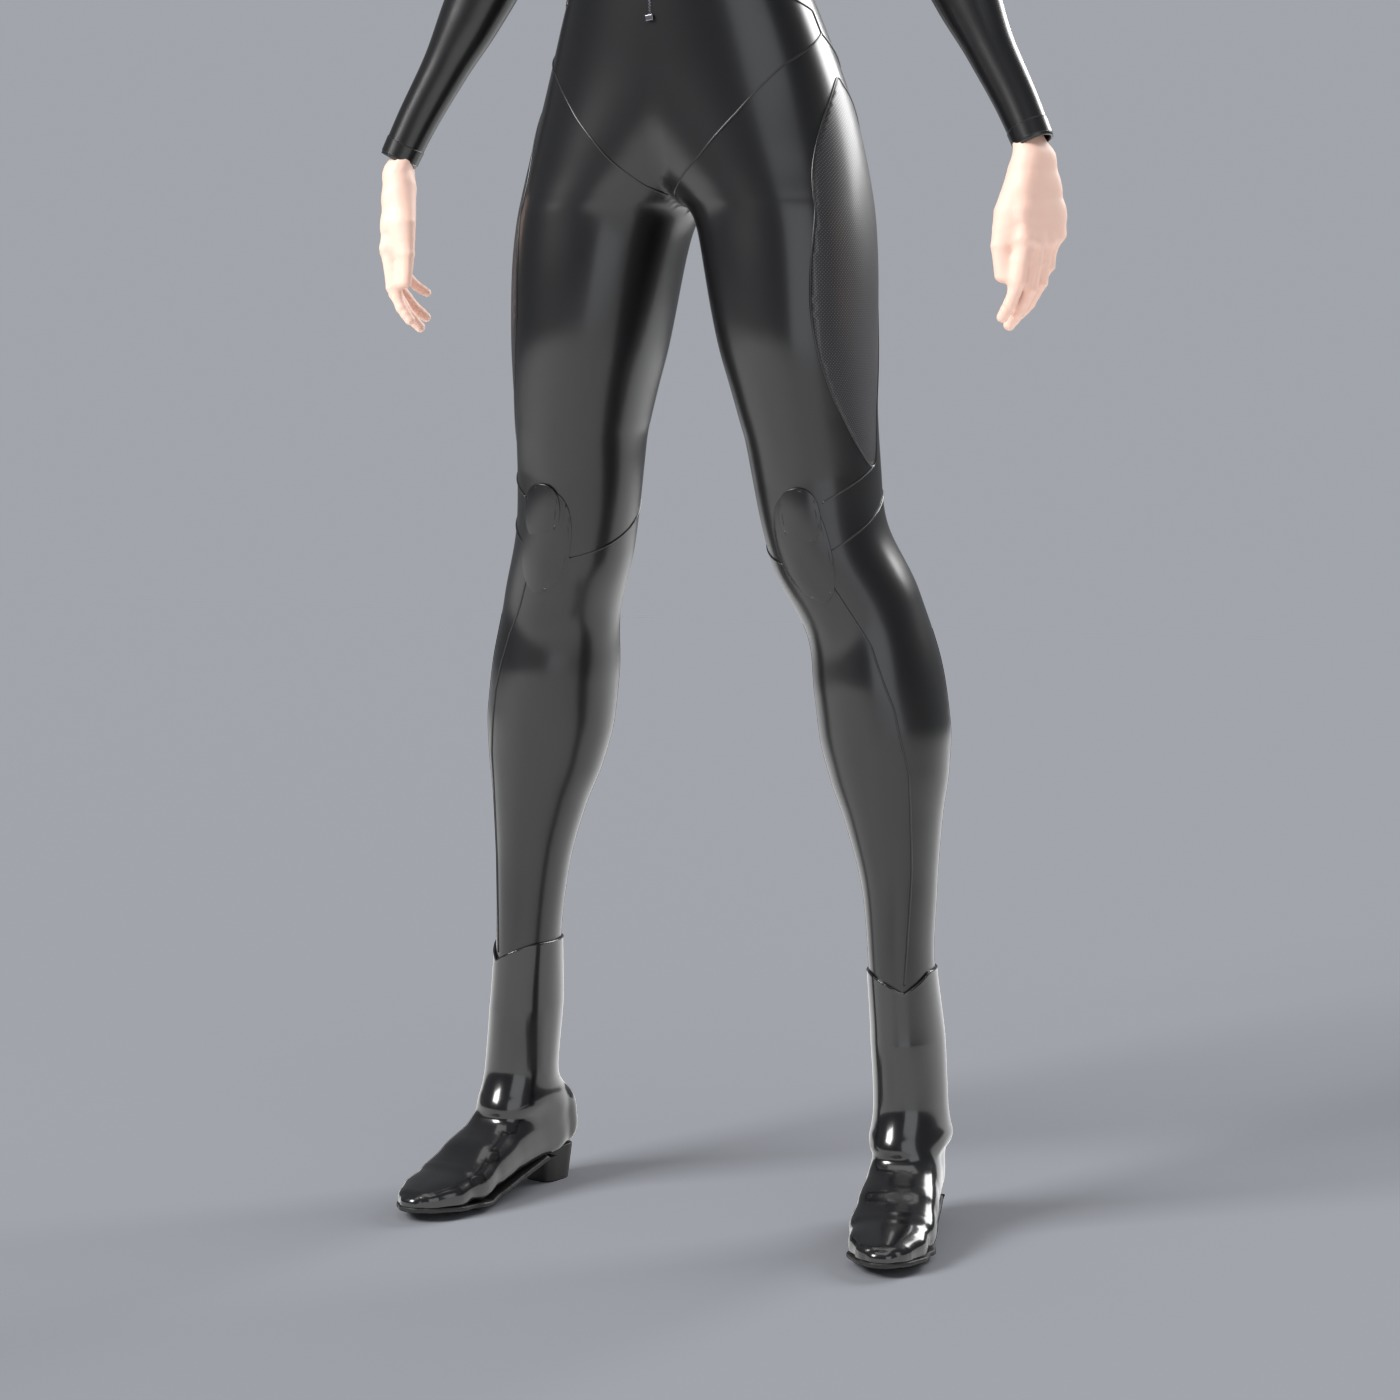
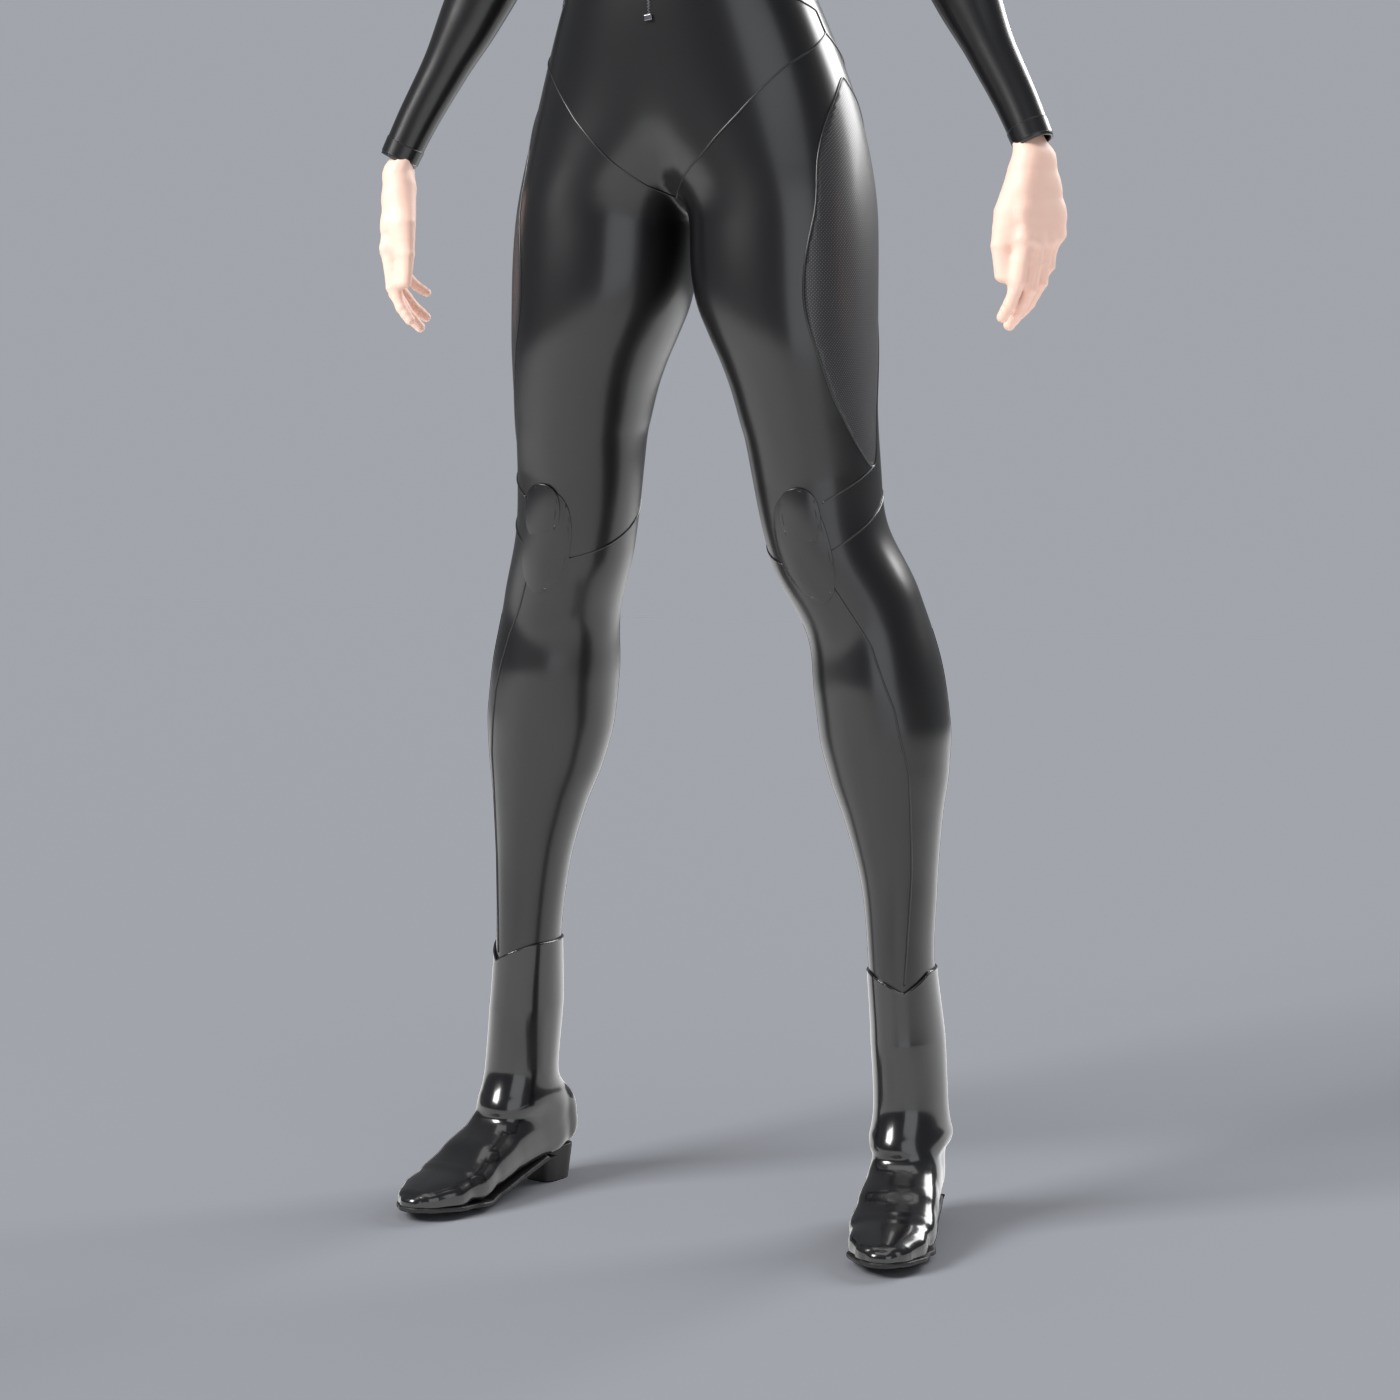
art(#33): Beatrice B1e renders -- the full set (sheet, turnaround, beauty, hip pictures, crotch.jpg, shape_vs_silhouette.jpg), measurements, provenance and index

Changed region(s): [[0.3993, 0.1229, 0.5221, 0.2764], [0.5529, 0.0, 0.6143, 0.1536], [0.3686, 0.0307, 0.3993, 0.1536]]

diff --git a/art/characters/Beatrice/previews/index.html b/art/characters/Beatrice/previews/index.html
@@ -21,7 +21,7 @@
 </head>
 <body>
 <main>
-  <h1>Beatrice — body, suit, hands, boots (stage 4: the pelvis)</h1>
+  <h1>Beatrice — body, suit, hands, boots (B1e: the pelvis, second round)</h1>
   <p>Built from Python alone on the shared character kit (<code>charkit/bodysuit.py</code>, Blender 4.5, Cycles) from the tables in
      <code>scripts/beatrice.py</code>, fitted to three drawings: front, side and back. The head is a bald placeholder for the
      face-and-hair stage. Character only, no props. This round answers <code>review_stage2.md</code>: new hands, the shoulder and
@@ -30,7 +30,20 @@
      <b>Stage 4</b> answers <code>review_stage3.md</code> for the pelvis only (waist, hips, seat, upper thighs); everything else is
      unchanged, and the close-ups further down are stage 3's.</p>
 
-  <h2>The pelvis (stage 4)</h2>
+  <h2>The pelvis, second round (B1e)</h2>
+  <p>Answers <code>review_stage4.md</code>, the pelvis only. <b>The gap between the legs:</b> the pelvis is now ONE surface across the
+     mid-plane, the smooth union of the half-body and its own mirror image (<code>charkit/bodysuit.py::MidUnion</code>), from under the
+     crotch to the waist, on the loft's own grid. The upper inner thighs are fuller (thigh / hip 0.479, the concept's 0.482; stage 4
+     0.446): a slot about 12 mm wide for the first 5&ndash;6 cm under the crotch that closes in a round arch, a smooth saddle from the
+     belly under to the seat's cleft, the surface crossing the mid-plane square (no crease line, no point). <b>The side:</b> a lumbar
+     curve flowing into one round seat, fullest at 0.94 m, its under-curve running over several centimetres into a slightly full back
+     of the thigh; a rounder lower belly, a soft groin, the front of the thigh swelling 3 mm into the knee. <b>The front:</b> the hip
+     rounds out sooner under the waist and eases off over the hip (half the way towards the owner's frontal reference,
+     <code>good-body-silhouette.jfif</code>), waist and widest point unchanged. Stage 4 is kept as the shape <code>stage4</code>.</p>
+  <figure><img src="crotch.jpg" alt="The crotch close up"><figcaption>The crotch close up: matte front, back, three-quarter front, from 40&deg; below front and back; glossy front and three-quarter</figcaption></figure>
+  <figure><img src="shape_vs_silhouette.jpg" alt="Against the owner's frontal reference"><figcaption>The owner's frontal body reference beside stage 4 and the new default, one scale (shoulder widths equal, waists aligned)</figcaption></figure>
+
+  <h2>The hip pictures (now B1e; the text is stage 4&#39;s)</h2>
   <p>The corner at the crotch came from the table: the leg rows held the outer edge upright up to the crotch row and the hand-set hip
      rows ran it in a straight line to the waist, two straight pieces meeting in one row. From above the knee to under the waist the
      trunk is now authored as its outlines (the front view's outer edge and the gap between the legs, the side view's front and back),
@@ -41,7 +54,7 @@
   <figure><img src="hips.jpg" alt="The pelvis in matte grey, five views"><figcaption>Pure form, matte grey, no seams, panels or arms: front, three-quarter front, side, three-quarter back, back</figcaption></figure>
   <div class="grid">
     <figure><img src="hips_vs_drawings.jpg" alt="The pelvis against the drawings"><figcaption>Against the drawings (orange), the concept beside the front</figcaption></figure>
-    <figure><img src="hips_before_after.jpg" alt="Outlines before and after"><figcaption>Outlines: blue stage 3, orange now</figcaption></figure>
+    <figure><img src="hips_before_after.jpg" alt="Outlines before and after"><figcaption>Stage 4 above, now below with stage 4&#39;s outline in blue</figcaption></figure>
   </div>
 
   <h2>Hands (the reviewer's first item)</h2>

diff --git a/art/characters/Beatrice/PROVENANCE.md b/art/characters/Beatrice/PROVENANCE.md
@@ -122,13 +122,37 @@ triangles, all closed.
 The face is the head function's default (doll-like), for the next stage. See the stage-2 report for what still
 reads weak (hands, the boot's heel counter, the shoulder cap seam, the back drawing's leg stance).
 
-## B1e: the pelvis, second round (2026-10-05, answers `previews/review_stage4.md`) — in progress
+## B1e: the pelvis, second round (2026-10-05, answers `previews/review_stage4.md`)
 
-- Reference added: `good-body-silhouette.jfif` (683 x 1024, supplied by Erik 2026-10-05; front view, head to upper
+- Reference added: `good-body-silhouette.jfif` (683 x 1024, supplied by Erik 2026-10-05; a front view, head to upper
   thighs, the earlier high-cut suit; "a good body shape, the same as the original image"). SHA-256
[1 lines of base64/hex data omitted]
-- Step 1, the gap between the legs: the pelvis is ONE surface across the mid-plane, the smooth union of the
-  half-body and its mirror image (`charkit/bodysuit.py::MidUnion`, table `MIDPLANE`), replacing the mid-plane cut
-  (`weld_rows`) + `midline_fillet` from under the crotch to the waist with one mechanism on the loft's own grid;
-  fuller upper inner thighs (`PELVIS["inner"]`): a slot about 12 mm wide for 6 cm under the crotch, a round arch.
-  Stage 4's pelvis is kept as the shape `stage4` (the hip pictures' "before").
+  Measured by hand (half-widths, px, between arm and body where the backdrop shows): deltoids 213.5 (row 480), narrowest
+  waist 128 (row 760), widest 198.5 just above the crotch (rows 980-1000): hip/waist 1.55 (CONCEPT 1.794), hip/shoulder
+  0.93 (0.911). Its waist-to-hip gain at 0.2 / 0.4 / 0.6 / 0.8 of the height: 0.30 / 0.56 / 0.78 / 0.93 (stage 4: 0.12 /
+  0.36 / 0.59 / 0.79). Its frame: `scripts/sheet_ref.py::SILHOUETTE`.
+- Kit (`bodysuit.py` and `hipsview.py` are this character's alone; no shared kit file touched):
+  - `bodysuit.MidUnion` (`dims["midplane"]`): the pelvis as ONE surface across the mid-plane, the smooth union
+    `smin(F(P), F(mirror P), k)` of the half-body (with its forms, continued past the plane) and its mirror image,
+    k = 2 w sigma (`reach` w; sigma = the half-body's |n_x| where it crosses the plane, 1 under the crotch). On the loft's
+    own grid: each vertex pushed horizontally within its level row onto the union, the swallowed run welded onto the
+    union's own crossing of the plane, the stretch beside each weld point resampled (`_spread`), rows 0.1 mm apart at
+    the arch's tip (`refine`), the tip relaxed and re-projected (`relax`), coincident weld vertices merged (`_clean`).
+    Replaces `weld_rows` + `midline_fillet` from 0.80 to 1.125 m (both kept, used by the shape `stage4`).
+    `Suit.forms(signed=)`, `Suit.body_lift`, `build_suit(body_only=)`.
+  - `hipsview`: `crotch.jpg`, `shape_vs_silhouette.jpg`; `hips_before_after.jpg` now the before beside now (matte, four
+    views); the measurements add the half-gap every 5 mm, `midplane_normals` and `mesh_check` to
+    `source/<prefix>outline.json`.
+- Tables: `PELVIS` (inner, outer, front, back), `SEAT` (broader, lower), `MIDPLANE`; `PELVIS4` / `SEAT4` / `MIDLINE` and the
+  shape `stage4` (= `HIPS_BEFORE`); the slimmer / fuller steps' seats follow the new SEAT.
+- Measured (full build): half-gap 6.0-8.0 mm from 0.83 to 0.86 m, 5.5 at 0.87, closed at 0.883 (stage 4: 21.0 / 14.8 /
+  11.9, closed at 0.887); thigh/hip 0.479 (0.446; concept 0.482); hip/waist 1.795, hip/shoulder 0.859, hip width and
+  waist unchanged. Suit_Body: 0 degenerate faces (stage 4: 520), 0 non-manifold edges; the other suit objects' counts
+  are unchanged from stage 4 (cuffs, zip tapes, shoulder patch: pre-existing, outside the pelvis). Outline turning
+  0.68-1.12 m, deg/cm, now (stage 4): front outer 3.31 at the waist, 1.8 below 1.10 (2.63); side front 2.76 (3.25);
+  side back 4.11 at the waist, 3.73 at the seat (4.45); three-quarter front 2.20 (4.58); three-quarter back 3.91 at
+  the waist, 3.54 at 0.888 (4.92). In step 1 the front and three-quarter outlines outside 0.78-0.93 m moved under
+  1 mm (0.76 mm worst). Sheet IoU, hip-knee band, front / side / back: 0.853 / 0.907 / 0.833 (0.852 / 0.897 / 0.833).
+- `source/mesh_stats.json`: 60 objects, 985,629 source / 2,534,292 evaluated triangles, all closed.
+- Reproduce: `bash charkit/run.sh Beatrice --sheet --turn --beauty all --save` (about 6.5 min), `--hips` (about 10 min:
+  stage 4 and the default, the crotch close-ups), `--compare`.
